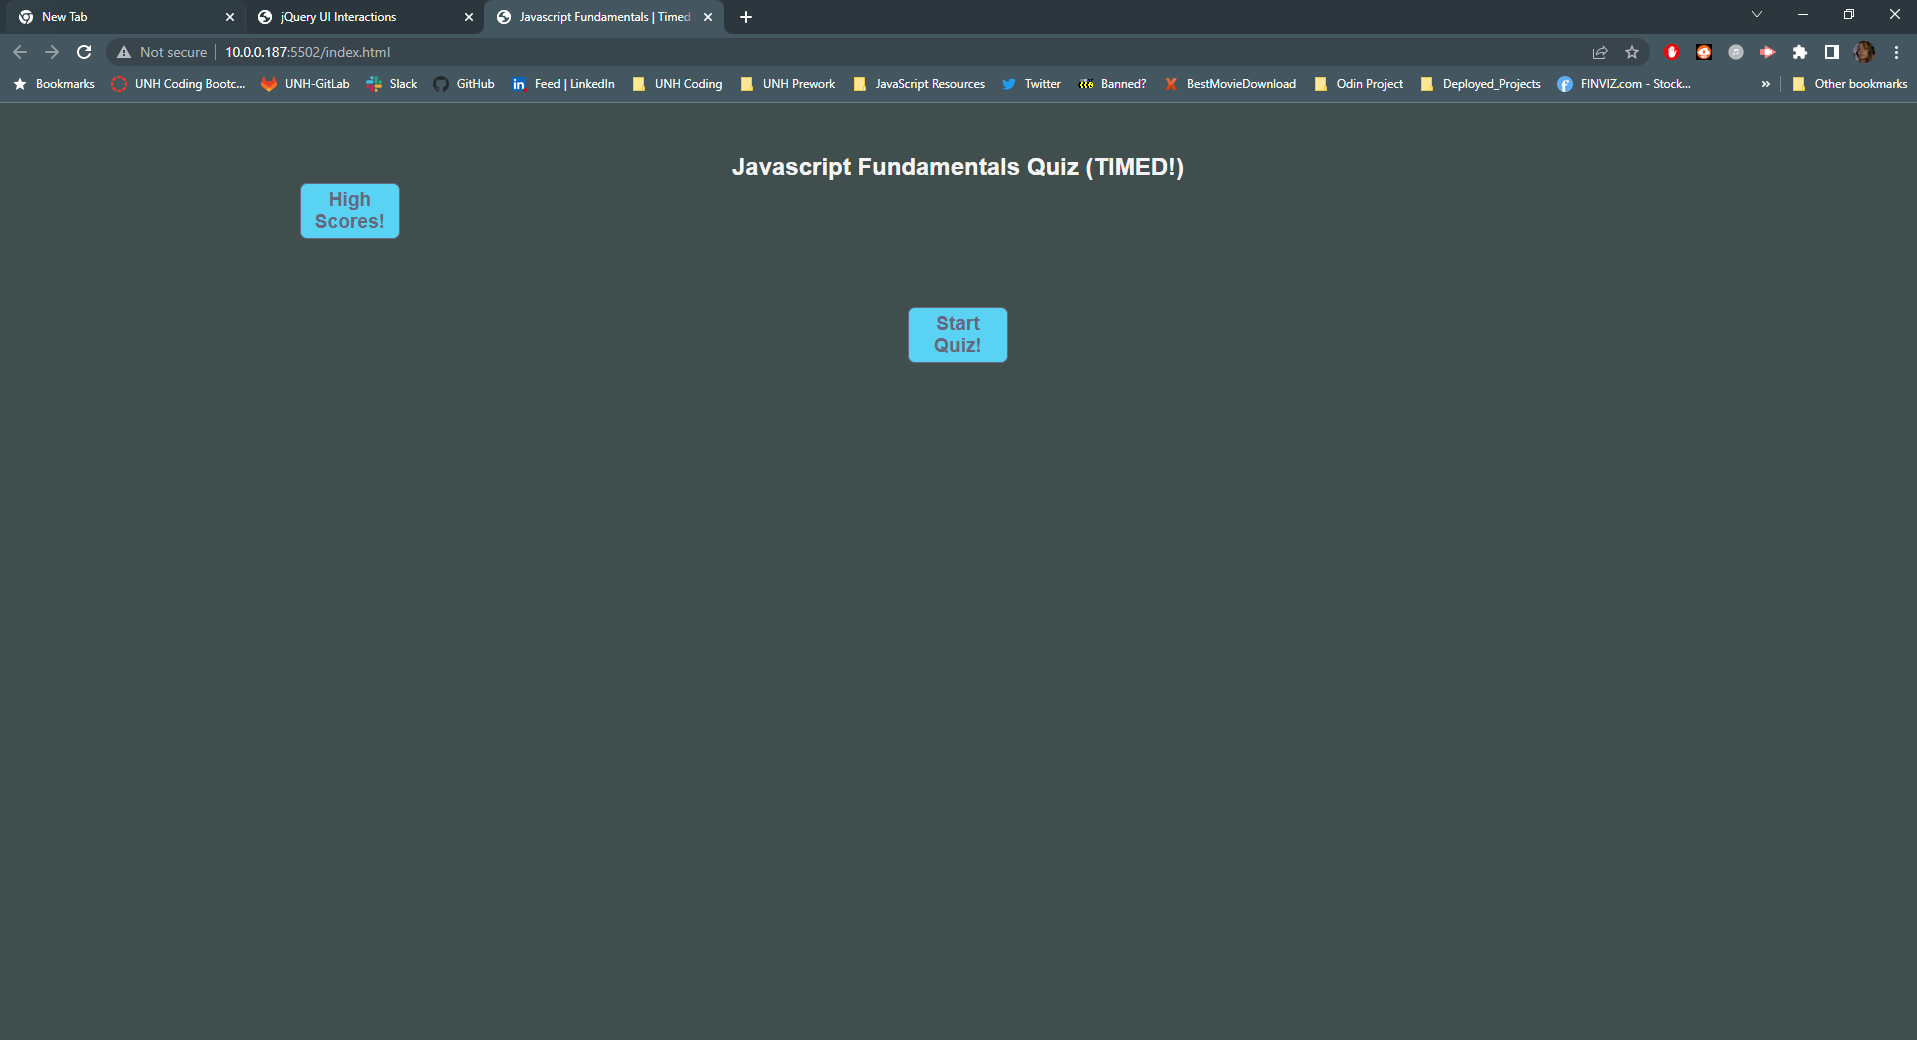
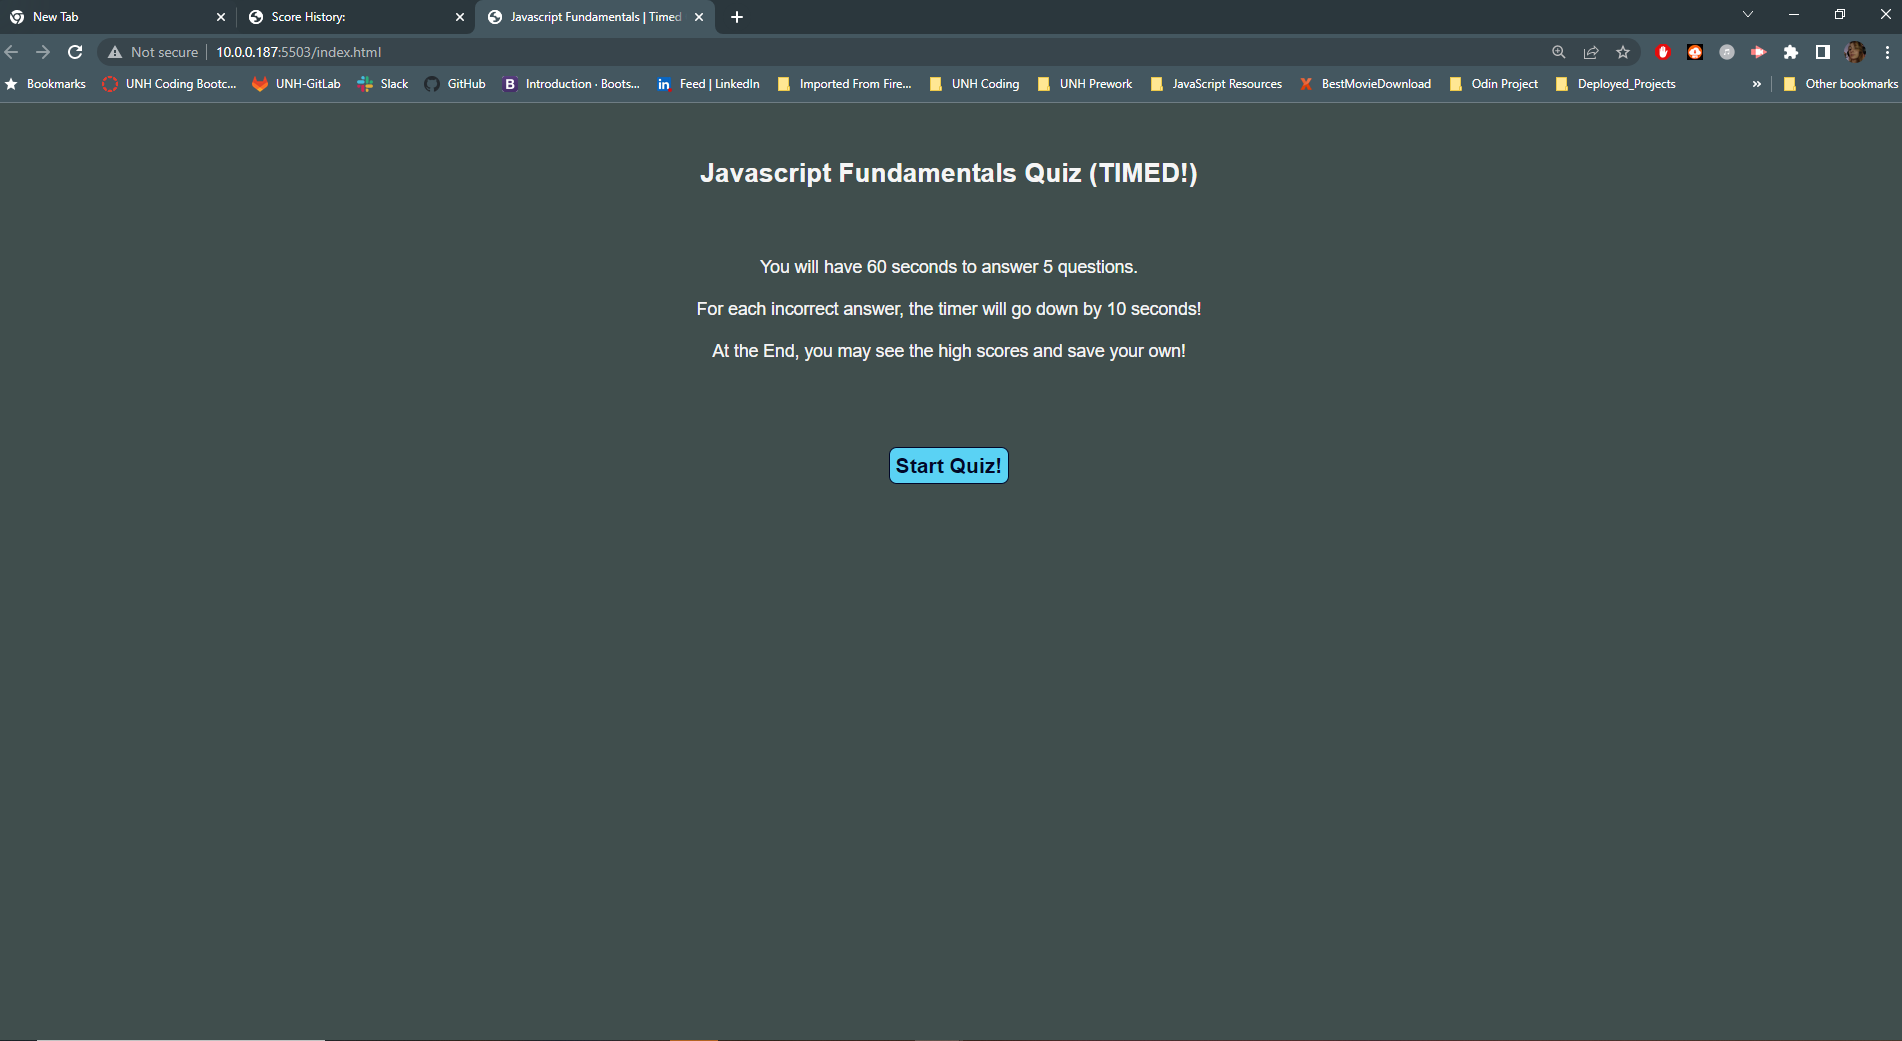
finished quiz with replay button after high scores

diff --git a/index.html b/index.html
@@ -12,8 +12,7 @@
     <!--Main Title on page-->
     <header>
       <h2 class="title">Javascript Fundamentals Quiz (TIMED!)</h2>
-      <!-- The high score section -->
-      <button class="high-scores">High Scores!</button>
+      <!-- <button class="high-scores">High Scores!</button> -->
       <div class="timer"></div>
     </header>
 
@@ -49,10 +48,14 @@
         <!--results will display here after the quiz ends, along with footer buttons via js-->
         </div>
         <!-- end quiz: action buttons -->
-        <footer class="footer-btns">
+        <div class="footer-btns">
+          <!-- <form >
+            <input type="text"  maxlength="2">
+          </form> -->
           <div class="submit-score-btn"><button>Submit Score!</button></div>
           <div class="redo-btn"><button>Replay!</button></div>
-        </footer>
+          <div class="past-scores-section"></div>
+        </div>
       </div>
       <!-- end of main div/container 'main class = "containter" ' -->
     </main>

diff --git a/assets/js/highscores.js b/assets/js/highscores.js
@@ -1,0 +1,32 @@
+var redoBtn = document.querySelector(".redo-btn");
+
+function renderScores() {
+  var currentScores = JSON.parse(localStorage.getItem("highScores"));
+
+  for (i = 0; i < currentScores.length; i++) {
+    var newScore = document.createElement("p");
+    newScore.textContent = `${currentScores[i].initials} got a score of ${currentScores[i].score}`;
+
+    document.getElementById("container").append(newScore);
+  }
+}
+
+redoBtn.addEventListener("click", startQuiz); // googled this, not totally sure whats happening here but it works.
+
+function startQuiz() {
+  location.replace("/index.html");
+}
+
+renderScores();
+
+// function namedFunction (param) {
+//     return param
+// }
+
+// namedFunction("yo")
+
+// var obj = {
+//     functionName: function() {
+//         return this;
+//     }
+// }

diff --git a/assets/css/style.css b/assets/css/style.css
@@ -39,13 +39,6 @@ button:hover {
   background: #9de0f3;
 }
 
-button.high-scores {
-  float: left;
-  position: relative;
-  margin: 10px;
-  padding: 6px;
-}
-
 button.start-btn {
   position: relative;
   font-size: larger;
@@ -92,4 +85,30 @@ h3 {
   font-size: larger;
   padding: 10px;
   margin: 10px;
+}
+
+#container {
+  margin: 10px;
+  padding: 10px;
+  display: flex;
+  flex-direction: column;
+  border: 2px solid var(--actfont);
+}
+
+#container h1 {
+  font-size: 25px;
+  padding: 5px;
+  color: var(--actionbtn);
+  text-decoration: underline;
+}
+
+#container p {
+  padding: 5px;
+  font-style: italic;
+}
+
+#container button.redo-btn {
+  position: relative;
+  font-size: larger;
+  margin-top: 5%;
 }

diff --git a/highscores.html b/highscores.html
@@ -1,0 +1,19 @@
+<!DOCTYPE html>
+<html lang="en">
+  <head>
+    <meta charset="UTF-8" />
+    <meta http-equiv="X-UA-Compatible" content="IE=edge" />
+    <meta name="viewport" content="width=device-width, initial-scale=1.0" />
+    <link rel="stylesheet" href="./assets/css/style.css" />
+    <title>Score History:</title>
+  </head>
+  <body>
+    <div id="container">
+      <h1>Score History:</h1>
+
+      <button class="redo-btn">Replay!</button>
+    </div>
+    <!-- put high scores in from local storage dynamically in highscores.js -->
+    <script src="./assets/js/highscores.js"></script>
+  </body>
+</html>

diff --git a/README.md b/README.md
@@ -2,23 +2,35 @@
 
 ## Description
 
-This project was an assignment to test my ability to code vanilla javaScript in a responsive way.
+This application uses vanilla Javascript to dynamically create a Timed multiple choice quiz.
 
-I will be continuing to work on this project when I have extra time, as I did not finish it.
+With each question answered incorrectly, the timer decrements by an additional 10 seconds, and
 
-As of now, my quiz application has a functioning start button, and the first question appears.
+the user will have the opportunity to submit their initials and score at the end of the Quiz.
 
-There is also a timer countdown that functions at this time that is displayed when the user clicks "start".
+I struggled with the entire project but mainly how to get the quizElements object array to display one question after the other
+
+with the corresponding answer options. This was a giant hurdle for me personally, and is why I decided it was important to complete it.
 
 ## Application Screen-capture
 
-![Picture of the JavaScript Fundamental Quiz start page](./assets/images/capture1.PNG?raw=true)
+![Picture of the JavaScript Timed Quiz start page](./assets/images/capture1.PNG?raw=true)
 
-![Picture of the JavaScript Fundamental Quiz once started](./assets/images/capture2.PNG?raw=true)
+![Picture of the JavaScript Timed Quiz once started](./assets/images/capture2.PNG?raw=true)
+
+![Picture of the JavaScript Timed Quiz scoreboard](./assets/images/capture.PNG?raw=true)
 
 ## Deployment
 
 https://nietru.github.io/js-timed-quiz/
+
+## Credits
+
+Tutor: Andres Long worked with me on this the whole way through to help me grasp all of the concepts.
+
+Instructor: Nicole Thomas
+
+TA: Bobby Hoffman
 
 ## User Story
 
